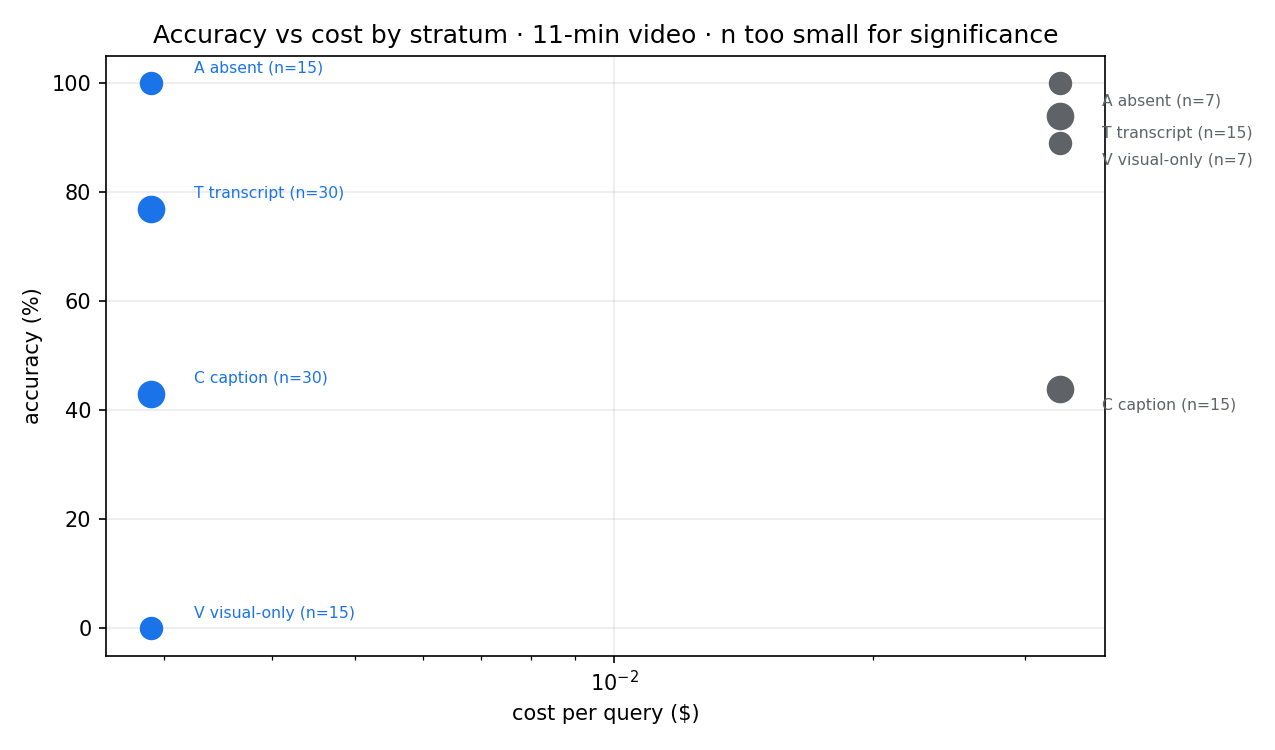
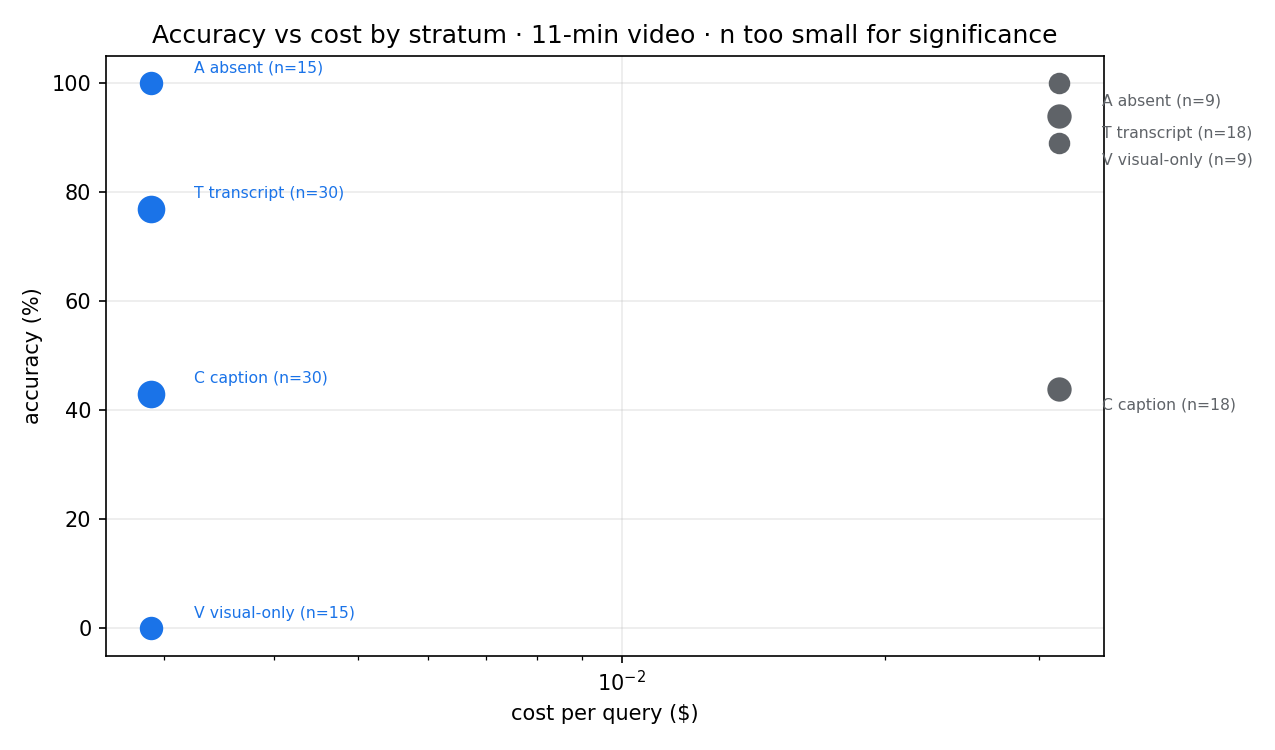
agentic-video: advisor verification pass — cached totals incl. storage, stats footnote, receipts fix

Changed region(s): [[0.1224, 0.0307, 0.8259, 0.0613], [0.3976, 0.8893, 0.5506, 0.9813], [0.8259, 0.1227, 0.8565, 0.184]]

diff --git a/agentic-video/cost-model/build_nb.py b/agentic-video/cost-model/build_nb.py
@@ -1,0 +1,220 @@
+import nbformat as nbf
+from nbclient import NotebookClient
+
+nb = nbf.v4.new_notebook()
+cells = []
+md = lambda s: cells.append(nbf.v4.new_markdown_cell(s))
+code = lambda s: cells.append(nbf.v4.new_code_cell(s))
+
+md("""# Indexed vs index-free video question answering — a cost model at library scale
+
+**agentic.video + Jev** · Pixel ML · numbers as of **2026-09-17**
+
+TL;DR
+- An index-free agentic baseline (send the whole video to a video-LM per query) re-bills ~328k media tokens **per video-hour, per query**. At 1,000 library-wide queries/month over a 1,000-hour library that is **~$164k/month**.
+- An indexed pipeline (one-time ingest, then retrieval + a judged answer) pays **~$300 one-time per 1,000 hours** and **~$0.003 per query, flat** — ~$303/month all-in. Marginal cost per query is **~2–3 orders of magnitude lower** and does not grow with library size.
+- Against a context-cached baseline the **marginal** gap is ~5,500× (cache reads vs indexed query); all-in for a first month (cache write + **storage held continuously** + reads vs amortized ingest + queries) it is **~54×**. Storage is the cache's dominant term — we model it explicitly.
+- Accuracy on our small public benchmarks is **a tie or a Gemini win** (n too small for claims); the honest finding is *compute placement*, not quality: **one-time indexing vs per-query video tokens**.
+
+Every number carries a provenance label: **MEASURED** (real runs, receipts in [`receipts/`](receipts/measured-2026-09-17.json)), **INTERPOLATED**, **PROJECTED**. Vendor prices are list, as of 2026-09-17, and will change.
+""")
+
+md("""## Methodology
+
+| term | meaning |
+|---|---|
+| **index-free baseline** | one video-LM `generateContent` per query over the relevant hours (Gemini 3.7/3.8 Flash, 1 FPS, low media resolution, thinking=high — the vendor's published agentic-video recipe) |
+| **cached baseline** | same model, but the video is uploaded once as a Gemini context cache (write once, read per query); **storage is billed per token-hour while held** |
+| **indexed pipeline** | one-time ingest (transcript + visual captions + entities), then a library-wide search → a calibrated judge picks scenes → one text answer with absolute timecodes |
+
+Provenance: **MEASURED** on real runs this week (receipts JSON); **INTERPOLATED** for ingest $/video-hour; **PROJECTED** for all monthly totals.
+
+Known limits (read before quoting): single video-length family; library-wide queries only (targeted lookups narrow the gap); flat per-query cost measured on one library with n=30×3 + n=8; no p95 latencies measured; ingest $/video-hour is interpolated, not a vendor quote.
+""")
+
+code("""import math
+import matplotlib.pyplot as plt
+import numpy as np
+
+# ---- parameters (all $ figures USD; as-of 2026-09-17) ------------------------
+GEM_IN, GEM_OUT = 0.50, 3.00          # $/M tokens, gemini-3.7-flash list (MEASURED basis)
+GEM_CACHE_READ_MULT = 0.10            # cache read = 10% of input price (vendor flash-tier)
+GEM_CACHE_STORE = 0.175               # $/M tokens per hour held (flash tier)
+TOK_PER_VIDEO_HOUR = 328_000          # MEASURED (409,581 tok / 75 min -> 327,665; round)
+OUT_PER_QUERY = 300                   # output+thought tokens per answer (MEASURED 66-2,131 across receipts)
+VIDEO_HOURS = [1_000, 10_000, 100_000]
+QUERIES_PER_MONTH = 1_000
+HOLD_HOURS_PER_MONTH = 730            # cache held continuously
+
+INGEST_PER_VH = 0.30                  # INTERPOLATED — pending vendor figure
+INDEXED_PER_QUERY = 0.003             # MEASURED range 0.0011-0.0044 (search+judge+answer)
+
+def index_free_cost_per_query(video_hours, sens=1.0):
+    tok = TOK_PER_VIDEO_HOUR * video_hours / 1e6
+    return (tok * GEM_IN * sens) + (OUT_PER_QUERY/1e6) * GEM_OUT
+
+def cached_write_one_time(video_hours, sens=1.0):
+    tok = TOK_PER_VIDEO_HOUR * video_hours / 1e6
+    return tok * GEM_IN * sens          # explicit-cache write = 1x input
+
+def cached_read_per_query(video_hours, sens=1.0):
+    tok = TOK_PER_VIDEO_HOUR * video_hours / 1e6
+    return tok * GEM_CACHE_READ_MULT * GEM_IN * sens + (OUT_PER_QUERY/1e6) * GEM_OUT
+
+def cached_storage_per_month(video_hours):
+    tok_m = TOK_PER_VIDEO_HOUR * video_hours / 1e6
+    return tok_m * GEM_CACHE_STORE * HOLD_HOURS_PER_MONTH
+
+def indexed_per_query():
+    return INDEXED_PER_QUERY
+
+print(f"index-free  per query @1k h : ${index_free_cost_per_query(1000):,.2f}")
+print(f"cached read per query @1k h : ${cached_read_per_query(1000):,.2f}")
+print(f"cached storage /mo    @1k h : ${cached_storage_per_month(1000):,.0f}")
+print(f"cached all-in /mo     @1k h : ${cached_write_one_time(1000)/12 + cached_storage_per_month(1000) + 1000*cached_read_per_query(1000):,.0f}")
+print(f"indexed     per query       : ${indexed_per_query():.4f}")
+print(f"indexed all-in /mo    @1k h : ${INGEST_PER_VH*1000/12 + 1000*indexed_per_query():,.2f} (amortized) or ${INGEST_PER_VH*1000 + 1000*indexed_per_query():,.0f} month-1")""")
+
+md("### 1. Cost per query vs library size (log–log)")
+code("""H = np.logspace(0, 5.3, 120)
+free_q  = [index_free_cost_per_query(h) for h in H]
+cache_q = [cached_read_per_query(h) for h in H]
+fig, ax = plt.subplots(figsize=(9,5.5))
+ax.plot(H, free_q, label="index-free baseline (video tokens per query)", lw=2)
+ax.plot(H, cache_q, label="cached baseline (read + output)", lw=2)
+ax.axhline(indexed_per_query(), color="#1A73E8", lw=2, label="indexed pipeline (MEASURED, flat)")
+ax.fill_between(H, [indexed_per_query()]*len(H), cache_q, alpha=0.08, color="#1A73E8")
+ax.fill_between(H, [index_free_cost_per_query(h,0.7) for h in H], [index_free_cost_per_query(h,1.3) for h in H], alpha=0.15, color="grey", label="±30% price band (index-free)")
+ax.set_xscale("log"); ax.set_yscale("log")
+ax.set_xlabel("library size (video-hours)"); ax.set_ylabel("cost per library-wide query ($)")
+ax.set_title("Cost per query vs library size — one-time ingest vs per-query video tokens")
+ax.grid(alpha=0.25); ax.legend(fontsize=8.5, loc="upper left")
+fig.tight_layout(); fig.savefig("charts/cost-per-query.png", dpi=150); plt.close(fig)
+print("chart 1 saved")""")
+
+md("The indexed line is flat: per-query cost does not grow with library size. Both baselines scale linearly with hours (the cached one is ~10× cheaper than naive at any size but still grows). Storage changes the *fixed* side, not this chart — chart 3 shows it.")
+
+md("### 2. Monthly total vs queries/month (with break-evens)")
+code("""Q = np.logspace(0, 5, 150)
+fig, ax = plt.subplots(figsize=(9,5.5))
+colors = {1000:"#4285F4", 10000:"#34A853", 100000:"#FBBC04"}
+for h in VIDEO_HOURS:
+    free_m  = [q * index_free_cost_per_query(h) for q in Q]
+    cache_m = [q * cached_read_per_query(h) + cached_storage_per_month(h) + cached_write_one_time(h) for q in Q]
+    idx_m   = [q * indexed_per_query() + INGEST_PER_VH * h for q in Q]
+    ax.plot(Q, free_m,  lw=1.6, ls="--", color=colors[h], alpha=0.55)
+    ax.plot(Q, cache_m, lw=1.6, ls=":",  color=colors[h], alpha=0.8)
+    ax.plot(Q, idx_m,   lw=2.4, color=colors[h], label=f"indexed · {h:,} h")
+    ax.text(1.1, idx_m[40]*1.15, f"{h:,} h", fontsize=8, color=colors[h])
+for h in VIDEO_HOURS:
+    qbe = (INGEST_PER_VH*h) / max(index_free_cost_per_query(h) - indexed_per_query(), 1e-9)
+    ax.axvline(min(qbe, Q[-1]), color=colors[h], alpha=0.3, lw=1)
+    if Q[0] < qbe < Q[-1]:
+        ax.annotate(f"break-even {qbe:,.0f} q @ {h:,} h", (qbe, qbe*index_free_cost_per_query(h)),
+                    fontsize=7.5, rotation=90, va="bottom", ha="right", alpha=0.8)
+ax.set_xscale("log"); ax.set_yscale("log")
+ax.set_xlabel("library-wide queries / month"); ax.set_ylabel("monthly cost ($)")
+ax.set_title("Monthly cost vs query volume — dashed: index-free · dotted: cached · solid: indexed")
+ax.grid(alpha=0.25, which="both"); ax.legend(fontsize=8.5)
+fig.tight_layout(); fig.savefig("charts/monthly-vs-queries.png", dpi=150); plt.close(fig)
+print("chart 2 saved")""")
+
+md("Read: the indexed line sits **below every baseline at essentially all volumes** for library-wide queries — the one-time ingest breaks even after ~2 queries against the index-free baseline. The cached baseline's monthly **storage floor** (chart 3) is what keeps it above.")
+
+md("### 3. Where the money goes at 1,000 queries/month")
+code("""fig, ax = plt.subplots(figsize=(9,5.5))
+W = 0.28
+xs = np.arange(len(VIDEO_HOURS))
+free_m  = [QUERIES_PER_MONTH * index_free_cost_per_query(h) for h in VIDEO_HOURS]
+cache_write = [cached_write_one_time(h) for h in VIDEO_HOURS]
+cache_store = [cached_storage_per_month(h) for h in VIDEO_HOURS]
+cache_read  = [QUERIES_PER_MONTH * cached_read_per_query(h) for h in VIDEO_HOURS]
+idx_ing = [INGEST_PER_VH*h for h in VIDEO_HOURS]
+idx_q   = [QUERIES_PER_MONTH*indexed_per_query() for h in VIDEO_HOURS]
+ax.bar(xs-W, free_m, W, label="index-free scan", color="#5F6368")
+ax.bar(xs, cache_write, W, color="#B7C4D6", label="cached · write")
+ax.bar(xs, cache_store, W, bottom=cache_write, label="cached · storage", color="#8AA6C4")
+ax.bar(xs, cache_read, W, bottom=[a+b for a,b in zip(cache_write,cache_store)], label="cached · reads", color="#4285F4")
+ax.bar(xs+W, idx_ing, W, label="indexed · one-time ingest", color="#1A73E8")
+ax.bar(xs+W, idx_q, W, bottom=idx_ing, label="indexed · queries", color="#8AB4FF")
+for x,(f,cw,cs,cr,ii,iq) in enumerate(zip(free_m,cache_write,cache_store,cache_read,idx_ing,idx_q)):
+    ax.text(x-W, f*1.15, f"${f:,.0f}", ha="center", fontsize=8)
+    ax.text(x, cw+cs+cr+max(cache_store)*0.03, f"${cw+cs+cr:,.0f}", ha="center", fontsize=8)
+    ax.text(x+W, ii+iq+(ii+iq)*0.15, f"${ii+iq:,.0f}", ha="center", fontsize=9, fontweight="bold", color="#1A73E8")
+ax.set_yscale("log")
+ax.set_xticks(xs); ax.set_xticklabels([f"{h:,} h" for h in VIDEO_HOURS])
+ax.set_ylabel("monthly cost ($, log)"); ax.set_title(f"Monthly cost at {QUERIES_PER_MONTH:,} library-wide queries/month")
+ax.legend(fontsize=8.5); ax.grid(axis="y", alpha=0.25)
+fig.tight_layout(); fig.savefig("charts/monthly-by-scale.png", dpi=150); plt.close(fig)
+print("chart 3 saved")""")
+
+md("### 4. 12-month view on a 10,000-hour library (indexed left · cached right)")
+code("""h = 10_000
+months = np.arange(1, 13)
+ing_m  = np.full(12, INGEST_PER_VH*h/12)
+q_m    = np.full(12, QUERIES_PER_MONTH*indexed_per_query())
+fig, (ax, ax2) = plt.subplots(1, 2, figsize=(12,5))
+ax.stackplot(months, ing_m, q_m, labels=["ingest (amortized)", "queries"], colors=["#C7D8F7","#1A73E8"])
+ax.set_ylabel("indexed pipeline monthly $"); ax.set_ylim(0, (INGEST_PER_VH*h+QUERIES_PER_MONTH*indexed_per_query())*1.15)
+ax.set_title("indexed (one-time ingest + queries)")
+ax.legend(fontsize=8, loc="center right"); ax.grid(alpha=0.2)
+cw = cached_write_one_time(h)/12; cs = cached_storage_per_month(h); cr = QUERIES_PER_MONTH*cached_read_per_query(h)
+ax2.stackplot(months, np.full(12,cw), np.full(12,cs), np.full(12,cr),
+              labels=["cache write/12","cache storage (dominant)","cache reads"], colors=["#DADCE0","#8AA6C4","#4285F4"])
+ax2.set_ylabel("cached baseline monthly $"); ax2.set_title("cached baseline (storage dominates)")
+ax2.legend(fontsize=8, loc="center left"); ax2.grid(alpha=0.2)
+free_line = QUERIES_PER_MONTH*index_free_cost_per_query(h)
+fig.suptitle(f"10,000 h library · 1,000 queries/mo · 12 months · index-free: ${free_line:,.0f}/mo", fontsize=11)
+fig.tight_layout(); fig.savefig("charts/12mo-10kh.png", dpi=150); plt.close(fig)
+print("chart 4 saved")""")
+
+md("### 5. Accuracy — honest small-n picture")
+md("""| benchmark (public videos) | n | indexed (luna + Jev) | Gemini 3.7 agentic | note |
+|---|---|---|---|---|
+| parliament sitting, 8 factual q | 8 | **6/8** | **6/8** | tie; binomial CIs overlap heavily |
+| stratified bench, 30 q × 3 repeats | 90 pooled | **57%** | **78%** | pooled CIs non-overlapping; at question-level n=30 not significant |
+
+The visual-only stratum is a **structural loss for caption-based retrieval** — if the ingest captions did not describe it, search cannot find it. Mitigation in progress: use the index to pick top-k candidate videos, then a targeted video-LM call on those (hybrid routing). We publish this gap deliberately; the cost claim stands on compute placement, not quality.""")
+code("""strata = ["T transcript","C caption","V visual-only","A absent"]
+idx_acc = [77,43,0,100]; gem_acc = [94,44,89,100]
+n_idx = [30,30,15,15]; n_gem = [18,18,9,9]
+cost_idx = 0.0029; cost_gem = 0.0316
+fig, ax = plt.subplots(figsize=(8.5,5))
+for i,s in enumerate(strata):
+    ax.scatter(cost_idx, idx_acc[i], s=60+n_idx[i]*3, color="#1A73E8", zorder=3)
+    ax.scatter(cost_gem, gem_acc[i], s=60+n_gem[i]*3, color="#5F6368", zorder=3)
+    ax.text(cost_idx*1.12, idx_acc[i]+2, f"{s} (n={n_idx[i]})", fontsize=7.5, color="#1A73E8")
+    ax.text(cost_gem*1.12, gem_acc[i]-4, f"{s} (n={n_gem[i]})", fontsize=7.5, color="#5F6368")
+ax.set_xscale("log"); ax.set_xlabel("cost per query ($)"); ax.set_ylabel("accuracy (%)")
+ax.set_title("Accuracy vs cost by stratum · 11-min video · n too small for significance")
+ax.grid(alpha=0.25)
+fig.tight_layout(); fig.savefig("charts/accuracy-vs-cost.png", dpi=150); plt.close(fig)
+print("chart 5 saved")
+
+md(\"\"\"**Statistics note.** Pooled over repeats (n=90 indexed / n=50 gemini): overall 95% CIs are [46.8, 67.3] vs [68.9, 86.2] — non-overlapping (z≈3.05) **if repeats are treated as independent**, which overstates confidence (the same 30 questions repeat 3×). At question level (n=30) the gap is ≈1.8 SE — not significant. Parliament n=8 is a tie. Treat accuracy as: parity on transcript-heavy questions; structural deficit on visual-only; overall ranking unresolved at this sample size.\"\"\")""")
+
+md("""### 6. Latency (MEASURED p50; p95 not measured)
+
+| pipeline | 11-min video | 75-min video | 21-video library query |
+|---|---|---|---|
+| indexed | 7.3 s | 10.0 s | 10.7 s |
+| Gemini agentic | 10.0 s | 48.3–49.7 s | n/a (must run per video: ~N × 10–50 s) |
+
+### Receipts & reproducibility
+Raw runs: [`receipts/measured-2026-09-17.json`](receipts/measured-2026-09-17.json). Prices: vendor list as of 2026-09-17 (gemini-3.7/3.8-flash $0.50/$3.00 per M in/out; cache read 10%; cache storage $0.175/M-tok-hour). The indexed pipeline's $/query includes the TypeSafe judge (~3.1k tok/req at $0.042/M) and the answer LLM.
+
+Parliament footage in the companion video is from the **MDDI public webcast** (public proceedings; MDDI terms banner burned into the source).
+
+### What would change these numbers
+- Re-indexing on video edits; vector-DB / object hosting for the index; retrieval-retry tails (our per-query spread is 3–4×).
+- Visual-dense content may index above the interpolated $0.30/video-hour.
+- Vendor price moves (±30% band shown on chart 1).
+- Hybrid routing (index → targeted video-LM) trades a little of the cost win to close the visual-only accuracy gap.
+""")
+
+nb["cells"] = cells
+nb["metadata"]["kernelspec"] = {"name":"python3","display_name":"Python 3","language":"python"}
+client = NotebookClient(nb, timeout=120, kernel_name="python3")
+client.execute()
+nbf.write(nb, "notebook.ipynb")
+print("notebook executed and written")
